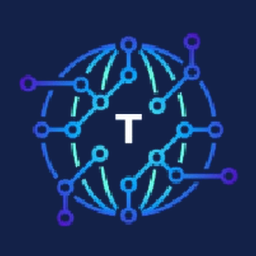
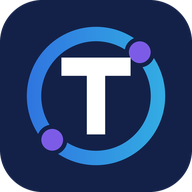
Ícone da aba novo e ficha da empresa para o Google
Ícone simplificado do globo ("T" branco no anel azul e ciano), legível
em 16 px, mais versão para a tela do iPhone. Dados estruturados
Organization e WebSite com nome, logo, e-mail e redes sociais, sem
telefone nem endereço.

diff --git a/app/layout.tsx b/app/layout.tsx
@@ -24,10 +24,36 @@ export const metadata: Metadata = {
   },
 };
 
+// Ficha da empresa para o Google (JSON-LD). Sem telefone nem endereço, como no resto do site.
+const fichaEmpresa = {
+  "@context": "https://schema.org",
+  "@graph": [
+    {
+      "@type": "Organization",
+      "@id": `${empresa.url}/#empresa`,
+      name: empresa.nome,
+      url: `${empresa.url}/`,
+      logo: `${empresa.url}/marca/logo-tecpro-original.jpg`,
+      email: empresa.email,
+      description: "Criação de sites sob medida a partir de modelos personalizados com a identidade de cada marca.",
+      sameAs: [`https://www.instagram.com/${empresa.instagram}/`, empresa.facebook],
+    },
+    {
+      "@type": "WebSite",
+      "@id": `${empresa.url}/#site`,
+      name: empresa.nome,
+      url: `${empresa.url}/`,
+      inLanguage: "pt-BR",
+      publisher: { "@id": `${empresa.url}/#empresa` },
+    },
+  ],
+};
+
 export default function RootLayout({ children }: { children: React.ReactNode }) {
   return (
     <html lang="pt-BR" className={`${serif.variable} ${sans.variable}`}>
       <body>
+        <script type="application/ld+json" dangerouslySetInnerHTML={{ __html: JSON.stringify(fichaEmpresa) }} />
         <Cabecalho />
         <main>{children}</main>
         <Rodape />

diff --git a/PROXIMOS-PASSOS.md b/PROXIMOS-PASSOS.md
@@ -14,7 +14,6 @@ Marque com `[x]` o que for concluído. A documentação técnica está no [READM
 ## No site (junto com o Claude)
 
 - [ ] **Prazos de entrega:** confirmar ou trocar os prazos de exemplo (Site estilizado: até 15 dias úteis; Site + Marketing: até 25 dias úteis). Ficam em `lib/dados.ts`.
-- [ ] **Ficha da empresa para o Google:** dados estruturados (JSON-LD `Organization`) com nome, logo, site, e-mail e links do Instagram e do Facebook, para o Google não confundir a TecPro com outras empresas de nome parecido.
 - [ ] **Assinatura de e-mail:** montar uma assinatura com o logo, o site e o Instagram para colar no Gmail.
 - [ ] **Demonstrações dos 4 modelos:** criar as cópias com nomes fictícios e ligar o botão "Ver demonstração" (`demoUrl` em `lib/dados.ts`).
   - [ ] Ofício Barbearia (base: projeto da barbearia, já em Next.js)
@@ -49,6 +48,7 @@ Marque com `[x]` o que for concluído. A documentação técnica está no [READM
 - [x] Logo novo, cores da marca, contatos reais e preços definidos com pesquisa de mercado.
 - [x] Página Portfólio e menu corrigido.
 - [x] Telefone fora do site: o WhatsApp só aparece ao enviar um pedido.
+- [x] Ficha da empresa para o Google (JSON-LD) e ícone da aba novo, legível em tamanho pequeno.
 - [x] Google Search Console: domínio verificado pelo Cloudflare e sitemap processado com 6 páginas (18/10/2026).
 
 ## Lembretes

diff --git a/docs/visual.md b/docs/visual.md
@@ -30,7 +30,9 @@ Carregadas por `next/font/google` em `app/layout.tsx` e expostas como `--fonte-s
 |---|---|
 | `public/marca/logo-tecpro-original.jpg` | Logo completo enviado pela TecPro (350 px, fundo azul-marinho) |
 | `public/marca/tecpro-emblema.png` | Só o globo, recortado com fundo transparente, usado no cabeçalho e no rodapé |
-| `app/icon.png` | Ícone da aba: globo sobre o azul-marinho do logo |
+| `app/icon.png` | Ícone da aba (192 px): "T" branco num anel azul e ciano, com dois pontos violeta, sobre o azul-marinho. Simplificado do globo, que virava borrão em 16 px |
+| `app/apple-icon.png` | O mesmo ícone em 180 px, sem transparência, para a tela inicial do iPhone |
+| `public/marca/favicon.png` | Cópia do ícone em 256 px, para usar fora do site |
 
 O nome "TECPRO / TECNOLOGIAS" ao lado do emblema é texto (`components/Marca.tsx`), não imagem. Se chegar uma versão do logo em alta resolução ou SVG, troque o emblema por ela.
 

diff --git a/README.md b/README.md
@@ -42,13 +42,14 @@ Basta enviar para a branch `main` do GitHub. O Cloudflare detecta o envio, roda 
 
 ```
 app/
-  layout.tsx            estrutura comum: fontes, cabeçalho, rodapé, metadados de SEO
+  layout.tsx            estrutura comum: fontes, cabeçalho, rodapé, metadados de SEO e ficha da empresa (JSON-LD)
   page.tsx              página inicial (hero, galeria, etapas, valores, marketing, simulador)
   portfolio/page.tsx    página Portfólio (modelos e sites entregues)
   modelos/[slug]/       página de cada modelo, gerada a partir de lib/dados.ts
   sitemap.ts, robots.ts SEO
   globals.css           todo o visual do site
   icon.png              ícone da aba do navegador
+  apple-icon.png        ícone ao salvar o site na tela do iPhone
 components/             partes reutilizáveis (cabeçalho, galeria, simulador...)
 lib/
   dados.ts              TODO o conteúdo: textos, modelos, preços, contatos

diff --git a/docs/decisoes.md b/docs/decisoes.md
@@ -23,3 +23,5 @@ Decisões tomadas no projeto, com o motivo. A mais recente fica no fim. Ao tomar
 | 2026-10-18 | Documentação dentro do repositório (`README.md` e `docs/`) | Qualquer pessoa que trabalhar no site encontra tudo junto do código |
 | 2026-10-18 | Google Search Console como propriedade do tipo Domínio | Cobre `www` e a raiz juntos; verificação automática pelo Cloudflare |
 | 2026-10-18 | Logo do globo mantido | Comparado lado a lado com o logo laranja (>>); a TecPro preferiu o globo |
+| 2026-10-18 | Ícone da aba simplificado ("T" no anel) em vez do globo inteiro | O globo virava borrão em 16 px |
+| 2026-10-18 | Ficha da empresa (JSON-LD) sem telefone e sem endereço | Ajudar o Google a separar a TecPro de outras "TecPro", mantendo a regra de não mostrar telefone e cidade |

diff --git a/docs/arquitetura.md b/docs/arquitetura.md
@@ -28,6 +28,8 @@ Visitante ──> Cloudflare (tecprotecnologias.com.br) ──> arquivos de out/
 | `/sitemap.xml` | `app/sitemap.ts` | Gerado no build (`dynamic = "force-static"`) |
 | `/robots.txt` | `app/robots.ts` | Gerado no build |
 
+Toda página leva a **ficha da empresa** para o Google (JSON-LD `Organization` e `WebSite`, em `app/layout.tsx`): nome, logo, site, e-mail e os links do Instagram e do Facebook (`sameAs`). Ela ajuda o Google a separar a TecPro de outras empresas com nome parecido. Telefone e endereço ficam de fora de propósito. Os dados vêm de `empresa` em `lib/dados.ts`.
+
 `trailingSlash: true` faz todas as rotas terminarem com `/`, o que combina com a hospedagem estática.
 
 ## Seções da página inicial (com âncoras)
